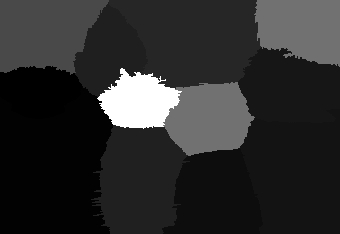
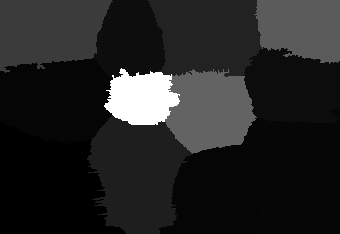
A2: Finally only Theory left

diff --git a/2019472_Assignment3/scripts/matlab/m_2019472_q1.m b/2019472_Assignment3/scripts/matlab/m_2019472_q1.m
@@ -14,7 +14,7 @@ fid = fopen(strcat(path, 'Outputs\2019472_Q1.csv'), 'w' );
 for numSuperpix = 1:size(numPixels, 2)
     numSuperpixels = numPixels(numSuperpix);
     % Calculate the superpixels
-    [L, numLabels] = superpixels(Image, numSuperpixels);
+    [L, numLabels] = superpixels(Image, numSuperpixels, 'Compactness', 13);
     ids = label2idx(L);
     
     % Initialize matrices for storing datas
@@ -76,8 +76,8 @@ fclose(fid);
 
 
 function [m1, mask1] = sepMeasure(sm)
-    sm = double(sm)/255;
-    mask1 = imbinarize(double(sm), graythresh(sm));
+%     sm = double(sm)/255;
+    mask1 = imbinarize(sm, graythresh(sm));
     
     fg = sm(mask1);
     bg = sm(~mask1);
@@ -96,7 +96,7 @@ function [m1, mask1] = sepMeasure(sm)
     stdFG = sqrt(var(fg(:))) + eps;
     stdBG = sqrt(var(bg(:))) + eps;
     
-    x = linspace(0, 1, 256);
+    x = linspace(0, 1, 1000);
     dists = [exp(-0.5*((x-meanFG)/stdFG).^2)/(stdFG*sqrt(2*pi));exp(-0.5*((x-meanBG)/stdBG).^2)/(stdBG*sqrt(2*pi))];
    
     a = 1/stdBG^2-1/stdFG^2;
@@ -109,7 +109,7 @@ function [m1, mask1] = sepMeasure(sm)
     rtx = rtx(1);
     fg1 = dists(1,:);
     fg2 = dists(2,:);
-    m1 = 1/(1+log10(1+sum(fg1(x<rtx))+sum(fg2(x>=rtx))));
+    m1 = 1/(1+1000*log10(1+sum(fg1(x<rtx))+sum(fg2(x>=rtx))));
 
 end
 
